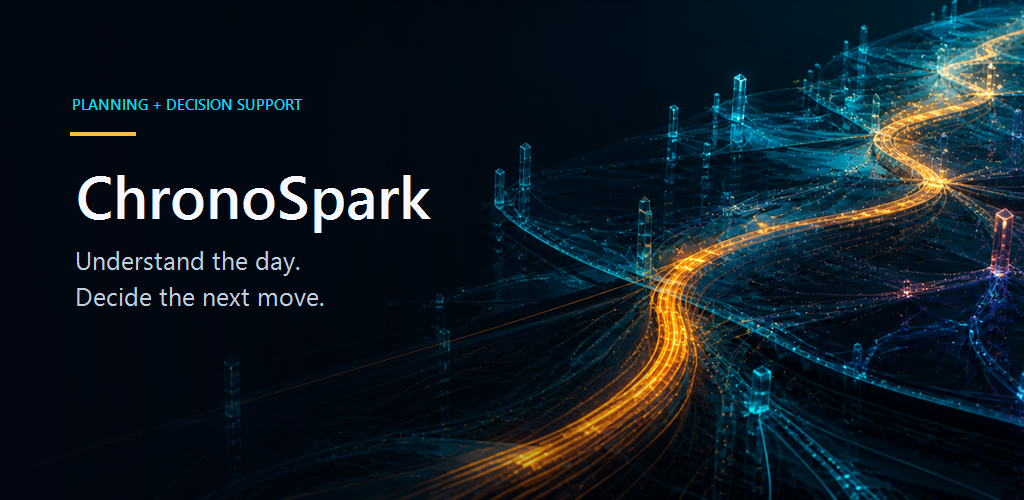
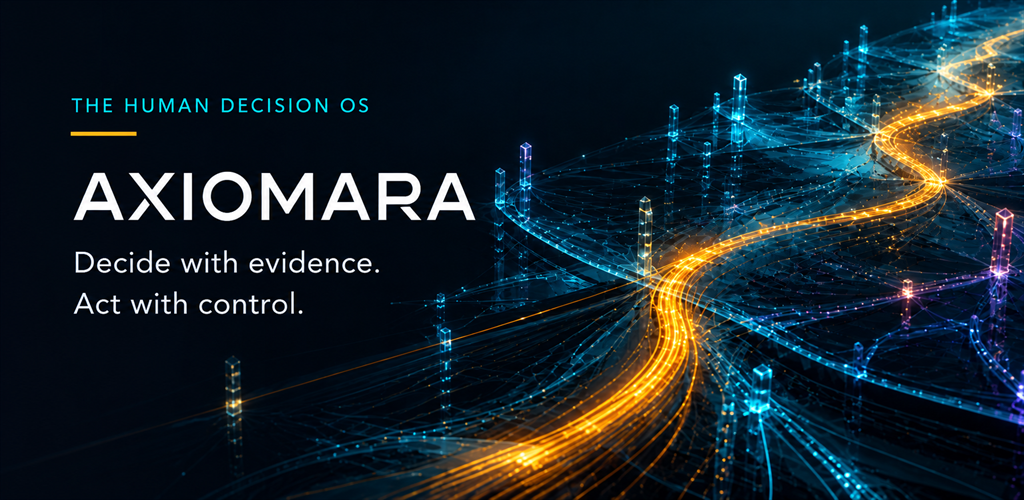
docs: align Google Play listing with Axiomara

diff --git a/public-surface/google-play/store-listing-es-419.md b/public-surface/google-play/store-listing-es-419.md
@@ -1,51 +1,53 @@
 # Ficha de Google Play: Español (Latinoamérica)
 
-Borrador para la versión privada 4.1.0+2026083053. Revisar en el teléfono la interfaz en español y las capturas de esta misma versión antes de guardar o enviar esta ficha en Play Console. El texto describe las funciones disponibles para una cuenta común; las compras y las acciones de IA externa siguen limitadas a las cuentas autorizadas de prueba.
+Revisada el 17 de septiembre de 2026 para la versión firmada 4.1.0+2026083063 de pruebas cerradas. Este archivo registra el borrador de la ficha; el envío y la publicación en Play Console requieren una verificación separada.
 
 ## Nombre de la app
 
-ChronoSpark: Smart Planner
+Axiomara: Decision OS
 
 ## Descripción breve
 
-Convierte tus tareas, metas y rutinas en un siguiente paso útil para hoy
+Convierte metas, tiempo, energía y contexto en decisiones claras y revisables.
 
 ## Descripción completa
 
-Hay días en los que un plan perfecto no sirve. Entre trabajo, pendientes y responsabilidades personales, lo que ayuda es saber qué puedes hacer ahora. ChronoSpark reúne tus tareas, metas, rutinas diarias y notas para ayudarte a elegir un paso que sí cabe en tu día.
+Axiomara convierte metas, compromisos, tiempo, energía, notas y contexto autorizado por ti en decisiones que puedes revisar antes de actuar.
 
-Tienes diez minutos antes de salir. Pregúntale al Planificador Inteligente (Smart Planner) qué conviene hacer primero. Revisa su propuesta, entiende por qué la eligió y decide si quieres seguirla, reducirla o probar otra opción.
+NEXUS: TU PAQUETE DE DECISIÓN EN VIVO
+
+Nexus reúne lo que importa ahora: el próximo movimiento recomendado, por qué encaja, las señales que lo respaldan, la incertidumbre y el control que conservas. Nada cambia en silencio.
+
+CONSTRUYE REALIDAD
+
+Usa Constructor de Realidad para registrar metas, tareas, notas y ritmos diarios. Conecta el trabajo de hoy con resultados importantes en lugar de mantener listas aisladas.
+
+RESUELVE EL AHORA
+
+Motor del Ahora considera tiempo disponible, prioridad, presión del horario y el contexto que eliges compartir. Pregunta qué hacer, pide un paso más pequeño o explora otro enfoque.
+
+INTERROGA EL RAZONAMIENTO
+
+Inteligencia Profunda te permite cuestionar una recomendación y revisar sus límites. La app separa hechos observados, supuestos y resultados posibles para que la orientación sea comprensible.
+
+COMPARA RAMAS FUTURAS
+
+Ramas Futuras te ayuda a examinar alternativas antes de comprometerte. Los escenarios son posibilidades, no promesas. Tú decides qué aceptar, cambiar, aplazar o rechazar.
+
+CIERRA EL BUCLE DE VERDAD
+
+Registro de Verdad conserva acciones elegidas y resultados. Axiomara aprende de lo que realmente ocurrió, y tú puedes revisar o corregir ese aprendizaje. Matriz de Capacidades muestra el progreso demostrado con acciones.
+
+DISEÑADO PARA LA VIDA REAL
+
+Los registros de energía y claridad son opcionales y temporales. Impulso refleja la evidencia actual de tu trayectoria. La entrada por voz y las respuestas habladas permanecen bajo tu control.
 
 SIN ANUNCIOS. NUNCA.
 
-No hay banners, videos obligatorios ni anuncios para obtener créditos, funciones o acceso. La experiencia es libre de anuncios para todas las personas, con o sin suscripción.
+Sin banners. Sin videos con recompensa. Sin interrupciones para obtener acceso. El uso sin anuncios no depende de una suscripción.
 
-HAZ QUE UNA META GRANDE TENGA UN COMIENZO
+IA Y FUNCIONES DE PAGO OPCIONALES
 
-Mantén tu meta a la vista, define una tarea concreta y revisa sus detalles antes de guardarla. Usa notas para recordar lo que importa y vuelve a tus rutinas diarias cuando necesites recuperar el hilo.
+La planificación básica permanece disponible sin anuncios. Cuando las pruebas privadas elegibles habilitan IA externa, Axiomara identifica el servicio, el contexto que podría enviarse y el costo en créditos antes de una acción de pago. La suscripción y los créditos de IA aparecen por separado.
 
-PLANEA CON EL TIEMPO Y LA ENERGÍA QUE TIENES
-
-Dile al Planificador Inteligente qué necesitas hacer y cuánto tiempo tienes. Si quieres, añade tu energía o contexto emocional para que lo considere. La sugerencia es una propuesta: puedes editarla, pedir un paso más pequeño, dejarla para después o rechazarla.
-
-ENTIENDE LA RESPUESTA
-
-En Consola SI puedes preguntar por tus tareas, metas y actividad guardadas. Revisa qué información respalda la orientación y dónde hay límites o incertidumbre. Una respuesta no cambia tus datos por sí sola; tú eliges cuándo actuar.
-
-VE EL PROGRESO QUE CONSTRUYES
-
-Consulta la actividad registrada en Línea de Tiempo y el progreso obtenido en tu perfil. Explora opciones y posibles consecuencias en Trayectoria. Estos escenarios sirven para pensar una decisión; no prometen un resultado futuro.
-
-TÚ TIENES EL CONTROL
-
-Elige qué contexto personal compartes. En Configuración encontrarás los controles de cuenta y de eliminación de datos. ChronoSpark ayuda a planear y reflexionar; no reemplaza apoyo profesional ni servicios de emergencia.
-
-QUÉ ESTÁ DISPONIBLE AHORA
-
-La orientación básica de planificación funciona en tu dispositivo. La sincronización y restauración en la nube no están disponibles, y el análisis de uso y los informes automáticos de fallas están desactivados.
-
-Puedes dictar con el proveedor de voz que elijas y revisar las palabras antes de enviarlas. Tu autorización se recuerda en este dispositivo y puedes restablecerla en Configuración. Si prefieres escuchar una respuesta, puedes detenerla cuando quieras; el audio también se detiene al salir de la pantalla.
-
-Las suscripciones, la compra de créditos y las acciones de IA externa están disponibles solo para cuentas elegibles de pruebas privadas. Cuando se ofrecen, la suscripción y los créditos de IA son cosas distintas: la app muestra lo que incluye el plan y el costo en créditos antes de confirmar una acción. Las acciones de IA externa identifican al proveedor y la información que se enviará. Nadie necesita pagar para evitar anuncios.
-
-Elige una acción útil ahora. Deja espacio para el resto de tu día.
+Axiomara ayuda a planificar y tomar decisiones. No reemplaza apoyo profesional, médico, legal, financiero ni servicios de emergencia.

diff --git a/public-surface/google-play/store-listing-en-US.md b/public-surface/google-play/store-listing-en-US.md
@@ -1,59 +1,57 @@
 # Default store listing: English (United States)
 
-Revised September 11, 2026 for the signed 4.1.0+2026083032 internal-testing candidate. This source file alone does not establish Console submission or public publication.
+Revised September 17, 2026 for the signed 4.1.0+2026083063 closed-testing candidate. This file records the listing draft; Play Console submission and publication require separate readback.
 
 ## App name
 
-ChronoSpark: Smart Planner
+Axiomara: Decision OS
 
-Character count: 26 / 30
+Character count: 21 / 30
 
 ## Short description
 
-Plan tasks, build daily rhythms, and choose your next move with clear guidance
+Turn goals, time, energy, and context into clear, inspectable decisions.
 
-Character count: 78 / 80
+Character count: 72 / 80
 
 ## Full description
 
-ChronoSpark helps you turn real-life demands into a next step you can understand and choose. Bring your goals, tasks, daily rhythms and notes together, then use planning guidance to work with the time and capacity you actually have.
+Axiomara turns goals, commitments, time, energy, notes, and user-approved context into decisions you can inspect before you act.
 
-PLAN AROUND REAL LIFE
+NEXUS: YOUR LIVE DECISION PACKET
 
-Study before school pickup. Break a large goal into a manageable task. Keep a daily routine in view. Record an idea before it disappears. ChronoSpark gives these everyday details a place in your plan.
+Nexus brings together what matters now: the recommended move, why it fits, the signals behind it, uncertainty, and the control you keep. Nothing changes silently.
 
-SEE WHAT NEEDS YOUR ATTENTION
+BUILD REALITY
 
-Nexus brings your planning context and suggested next move together. Timeline helps you review plans and recorded activity, with scheduled times kept distinct from actual deadlines.
+Use Reality Builder to capture goals, tasks, notes, and daily rhythms. Connect today's work to outcomes that matter instead of maintaining disconnected lists.
 
-MAKE YOUR NEXT STEP PRACTICAL
+RESOLVE THE NOW
 
-Tell Smart Planner what you are dealing with, how much time you have and any capacity or emotional context you choose to share. Review a concrete next step informed by your request and relevant saved information. Guidance stays separate from saved changes until you choose to act.
+Now Engine considers available time, priority, schedule pressure, and the context you choose to share. Ask what to do next, request a smaller step, or explore another approach.
 
-UNDERSTAND THE REASONING
+INTERROGATE THE REASONING
 
-Use SI Console to ask about tasks, goals, milestones and Timeline activity. Its on-device guidance explains the evidence it found and the limits of what it can conclude. You stay in control of whether to act, edit, defer or reject a suggestion.
+Deep Intelligence lets you question the recommendation and inspect its limits. The app separates observed facts, assumptions, and possible outcomes so guidance stays understandable.
 
-CREATE WITH INTENTION
+COMPARE FUTURE BRANCHES
 
-Use Creator to prepare a task, review its details and confirm before saving. Organize goals, keep useful notes and manage daily rhythms through the app's planning tools.
+Future Branches helps you examine tradeoffs before committing. Scenarios are possibilities, not promises. You decide what to accept, change, delay, or reject.
 
-REFLECT ON WHAT YOU DO
+CLOSE THE TRUTH LOOP
 
-Progression shows recorded activity and earned progress. Trajectory helps you examine possible paths and tradeoffs. Scenarios are conditional possibilities, not promises about your future.
+Truth Ledger records chosen actions and outcomes. Axiomara learns from what actually happened, and you can review or correct that learning. Capability Matrix shows progress earned through action.
+
+DESIGNED FOR REAL LIFE
+
+Energy and clarity check-ins are optional and temporary. Momentum reflects current trajectory evidence. Voice input and spoken responses remain under your control.
 
 NO ADS. EVER.
 
-ChronoSpark will never show ads. No banners, advertising interruptions or videos to watch for credits, features or access. This applies to every user, including users without a paid plan.
+No banners. No rewarded videos. No interruption-for-access model. Ad-free use does not depend on a subscription.
 
-YOUR CHOICES MATTER
+OPTIONAL AI AND PAID FEATURES
 
-Choose what personal context you share. Review guidance before changing your plan. Account and data-deletion controls are available in Settings. Planning guidance does not replace professional or emergency support.
+Core planning remains available without ads. Where eligible private testing enables external AI, Axiomara identifies what service is used, what context may be sent, and the credit cost before a paid action. Subscription access and spendable AI credits are shown separately.
 
-FEATURE AVAILABILITY
-
-ChronoSpark is currently available in English. Core planning guidance runs on device. Optional voice dictation explains the device speech provider's processing before microphone use. Cloud sync, restore, analytics and crash reporting are currently disabled.
-
-Subscriptions, credit purchases and external AI actions are limited to eligible private testing accounts in this release. Where available, paid features and credit costs are shown before confirmation. External AI actions identify the provider and information to be sent. Google Play internal testers must also be registered license testers and choose test payment methods to avoid real charges.
-
-Make room for a clearer day, one considered action at a time.
+Axiomara supports planning and decision-making. It does not replace professional, medical, legal, financial, or emergency support.
